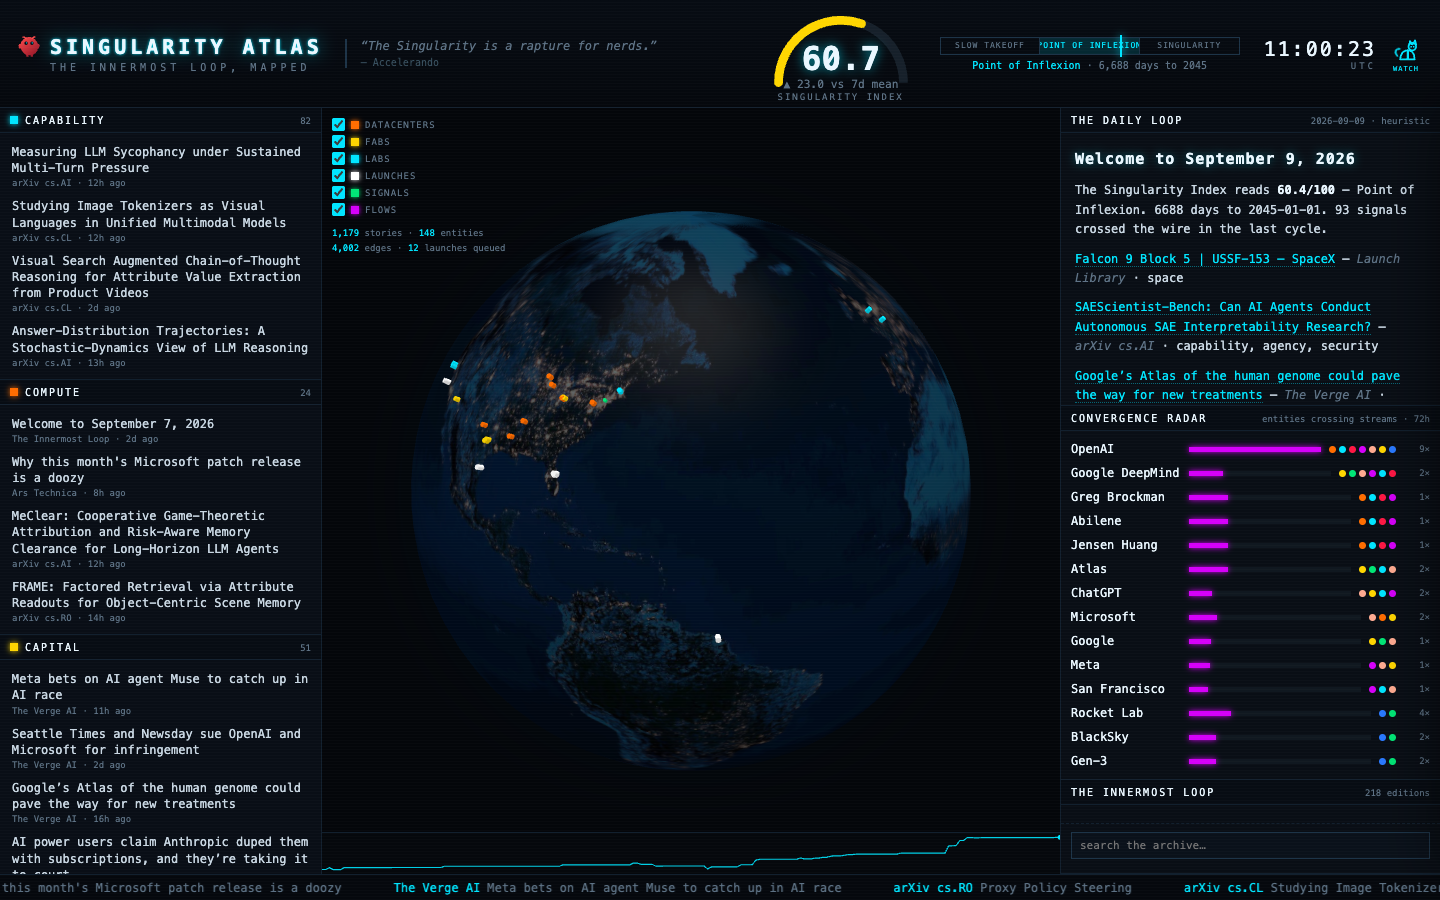
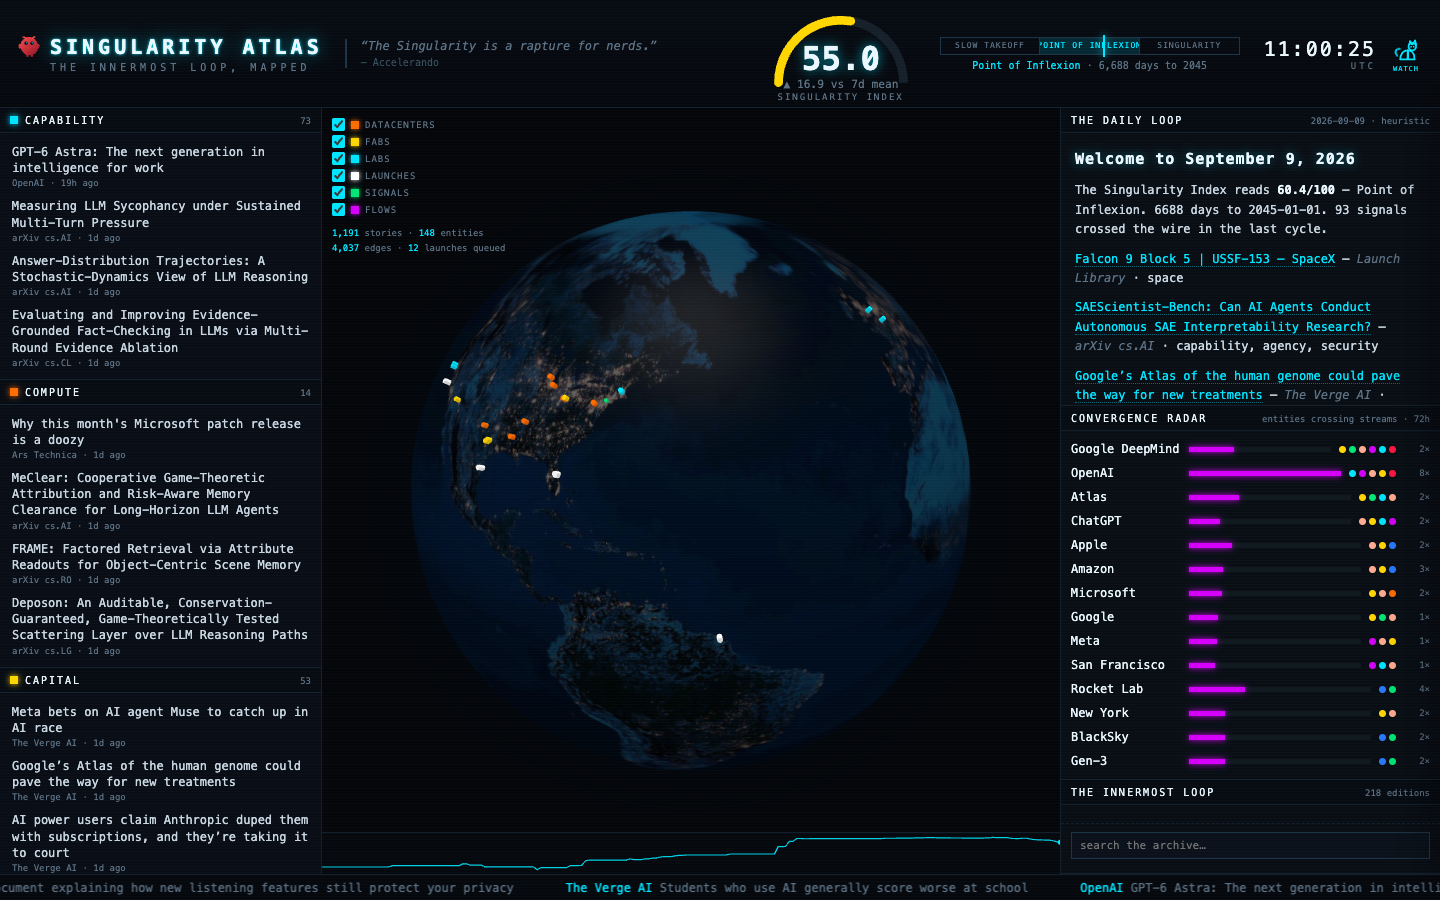
Publish 24h public snapshot 2026-09-10

diff --git a/docs/index.html b/docs/index.html
@@ -47,14 +47,14 @@
     <div class="eyebrow">Public 24h snapshot · not the live globe</div>
     <h1>The Singularity Atlas</h1>
     <p class="lede">Yesterday's board. The live dashboard stays on the machine that runs it. This page is replaced at least daily.</p>
-    <p class="meta">Captured 2026-09-09 07:00 EDT · 96 stories in 24h · graph 1178 stories / 147 entities · brief heuristic</p>
+    <p class="meta">Captured 2026-09-10 07:00 EDT · 74 stories in 24h · graph 1191 stories / 148 entities · brief heuristic</p>
   </header>
   <main>
     <div class="hero">
       <div>
-        <div class="si">60.7<small>Point of Inflexion · /100</small></div>
+        <div class="si">55.0<small>Point of Inflexion · /100</small></div>
       </div>
-      <div class="vecs"><div class="vec"><span class="dot" style="background:#00e5ff"></span><span class="vlabel">Capability</span><span class="vscore">81.6</span></div><div class="vec"><span class="dot" style="background:#ff6d00"></span><span class="vlabel">Compute</span><span class="vscore">24.3</span></div><div class="vec"><span class="dot" style="background:#ffd600"></span><span class="vlabel">Capital</span><span class="vscore">51.2</span></div><div class="vec"><span class="dot" style="background:#00e676"></span><span class="vlabel">Embodiment</span><span class="vscore">58.2</span></div><div class="vec"><span class="dot" style="background:#d500f9"></span><span class="vlabel">Agency</span><span class="vscore">79.5</span></div><div class="vec"><span class="dot" style="background:#ff1744"></span><span class="vlabel">Security</span><span class="vscore">20.9</span></div><div class="vec"><span class="dot" style="background:#2979ff"></span><span class="vlabel">Space</span><span class="vscore">64.0</span></div><div class="vec"><span class="dot" style="background:#ffab91"></span><span class="vlabel">Culture</span><span class="vscore">52.8</span></div></div>
+      <div class="vecs"><div class="vec"><span class="dot" style="background:#00e5ff"></span><span class="vlabel">Capability</span><span class="vscore">73.3</span></div><div class="vec"><span class="dot" style="background:#ff6d00"></span><span class="vlabel">Compute</span><span class="vscore">14.3</span></div><div class="vec"><span class="dot" style="background:#ffd600"></span><span class="vlabel">Capital</span><span class="vscore">52.9</span></div><div class="vec"><span class="dot" style="background:#00e676"></span><span class="vlabel">Embodiment</span><span class="vscore">39.2</span></div><div class="vec"><span class="dot" style="background:#d500f9"></span><span class="vlabel">Agency</span><span class="vscore">71.7</span></div><div class="vec"><span class="dot" style="background:#ff1744"></span><span class="vlabel">Security</span><span class="vscore">21.6</span></div><div class="vec"><span class="dot" style="background:#2979ff"></span><span class="vlabel">Space</span><span class="vscore">66.9</span></div><div class="vec"><span class="dot" style="background:#ffab91"></span><span class="vlabel">Culture</span><span class="vscore">56.1</span></div></div>
     </div>
     <img class="board" src="board.png" alt="The Singularity Atlas dashboard, last capture" />
     <div class="grid">
@@ -76,11 +76,10 @@
       </section>
       <aside>
         <h2>Crossing streams</h2>
-        <ul><li><strong>Google DeepMind</strong> <span class="muted">capital, embodiment, culture, agency, capability, security</span></li><li><strong>OpenAI</strong> <span class="muted">culture, capability, agency, capital, space</span></li><li><strong>Atlas</strong> <span class="muted">capital, embodiment, capability, culture</span></li><li><strong>ChatGPT</strong> <span class="muted">culture, capital, capability, agency</span></li><li><strong>Microsoft</strong> <span class="muted">culture, compute, capital</span></li><li><strong>Google</strong> <span class="muted">capital, embodiment, culture</span></li><li><strong>Meta</strong> <span class="muted">agency, culture, capital</span></li><li><strong>San Francisco</strong> <span class="muted">agency, capability, culture</span></li><li><strong>Rocket Lab</strong> <span class="muted">space, embodiment</span></li><li><strong>BlackSky</strong> <span class="muted">space, embodiment</span></li><li><strong>Gen-3</strong> <span class="muted">space, embodiment</span></li><li><strong>Anthropic</strong> <span class="muted">capital, culture</span></li></ul>
-        <h2>Feeds 13/15</h2>
+        <ul><li><strong>Google DeepMind</strong> <span class="muted">capital, embodiment, culture, agency, capability, security</span></li><li><strong>OpenAI</strong> <span class="muted">capability, agency, culture, capital, security</span></li><li><strong>Atlas</strong> <span class="muted">capital, embodiment, capability, culture</span></li><li><strong>ChatGPT</strong> <span class="muted">culture, capital, capability, agency</span></li><li><strong>Apple</strong> <span class="muted">culture, capital, space</span></li><li><strong>Amazon</strong> <span class="muted">culture, capital, space</span></li><li><strong>Microsoft</strong> <span class="muted">capital, culture, compute</span></li><li><strong>Google</strong> <span class="muted">capital, embodiment, culture</span></li><li><strong>Meta</strong> <span class="muted">agency, culture, capital</span></li><li><strong>San Francisco</strong> <span class="muted">agency, capability, culture</span></li><li><strong>Rocket Lab</strong> <span class="muted">space, embodiment</span></li><li><strong>New York</strong> <span class="muted">capital, culture</span></li></ul>
+        <h2>Feeds 14/15</h2>
         <ul><li class="ok"><code>verge-ai</code> 10 items</li><li class="ok"><code>arxiv-cs-lg</code> 12 items</li><li class="ok"><code>arxiv-cs-ai</code> 12 items</li><li class="ok"><code>launches</code> 20 items</li><li class="ok"><code>ars</code> 20 items</li><li class="ok"><code>arxiv-cs-cl</code> 12 items</li><li class="ok"><code>mit-tr-ai</code> 10 items</li><li class="ok"><code>interconnects</code> 20 items</li><li class="ok"><code>import-ai</code> 20 items</li><li class="ok"><code>openai</code> 25 items</li><li class="ok"><code>deepmind</code> 25 items</li><li class="fail"><code>venturebeat-ai</code> 0 items · venturebeat-ai: HTTPStatusError: Client error &#x27;429 Too Many Requests&#x27; for url &#x27;https://venturebeat.com/category/ai/feed/&#x27;
-For more information check: https://developer.mozilla.org/en-US/docs/Web/HTTP/Status/429</li><li class="ok"><code>arxiv-cs-ro</code> 12 items</li><li class="ok"><code>hn-ai</code> 71 items</li><li class="fail"><code>gdelt-ai</code> 0 items · gdelt-ai: HTTPStatusError: Client error &#x27;429 Too Many Requests&#x27; for url &#x27;https://api.gdeltproject.org/api/v2/doc/doc?query=%22artificial%20intelligence%22&amp;mode=artlist&amp;maxrecords=40&amp;format=json&amp;sort=hybridrel&#x27;
-For more information check: https://developer.mozilla.org/en-US/docs/Web/HTTP/Status/429</li></ul>
+For more information check: https://developer.mozilla.org/en-US/docs/Web/HTTP/Status/429</li><li class="ok"><code>arxiv-cs-ro</code> 12 items</li><li class="ok"><code>hn-ai</code> 71 items</li><li class="ok"><code>gdelt-ai</code> 40 items</li></ul>
       </aside>
     </div>
   </main>
